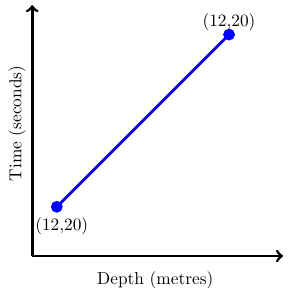
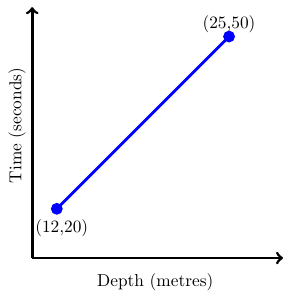
Fixed typo in figure

Changed region(s): [[0.0312, 0.0, 1.0, 0.9153], [0.3125, 0.9153, 0.75, 1.0]]

diff --git a/tex/rateofchange1.tex b/tex/rateofchange1.tex
@@ -16,6 +16,6 @@
 \draw [draw=blue, fill=blue, thick] (.5,1) circle (3.0pt);
 \draw [draw=blue, fill=blue, thick] (4,4.5) circle (3.0pt);
 \node[] at (.6,.6) {(12,20)};
-\node[] at (4,4.75) {(12,20)};
+\node[] at (4,4.75) {(25,50)};
 \end{tikzpicture}
 \end{document}
